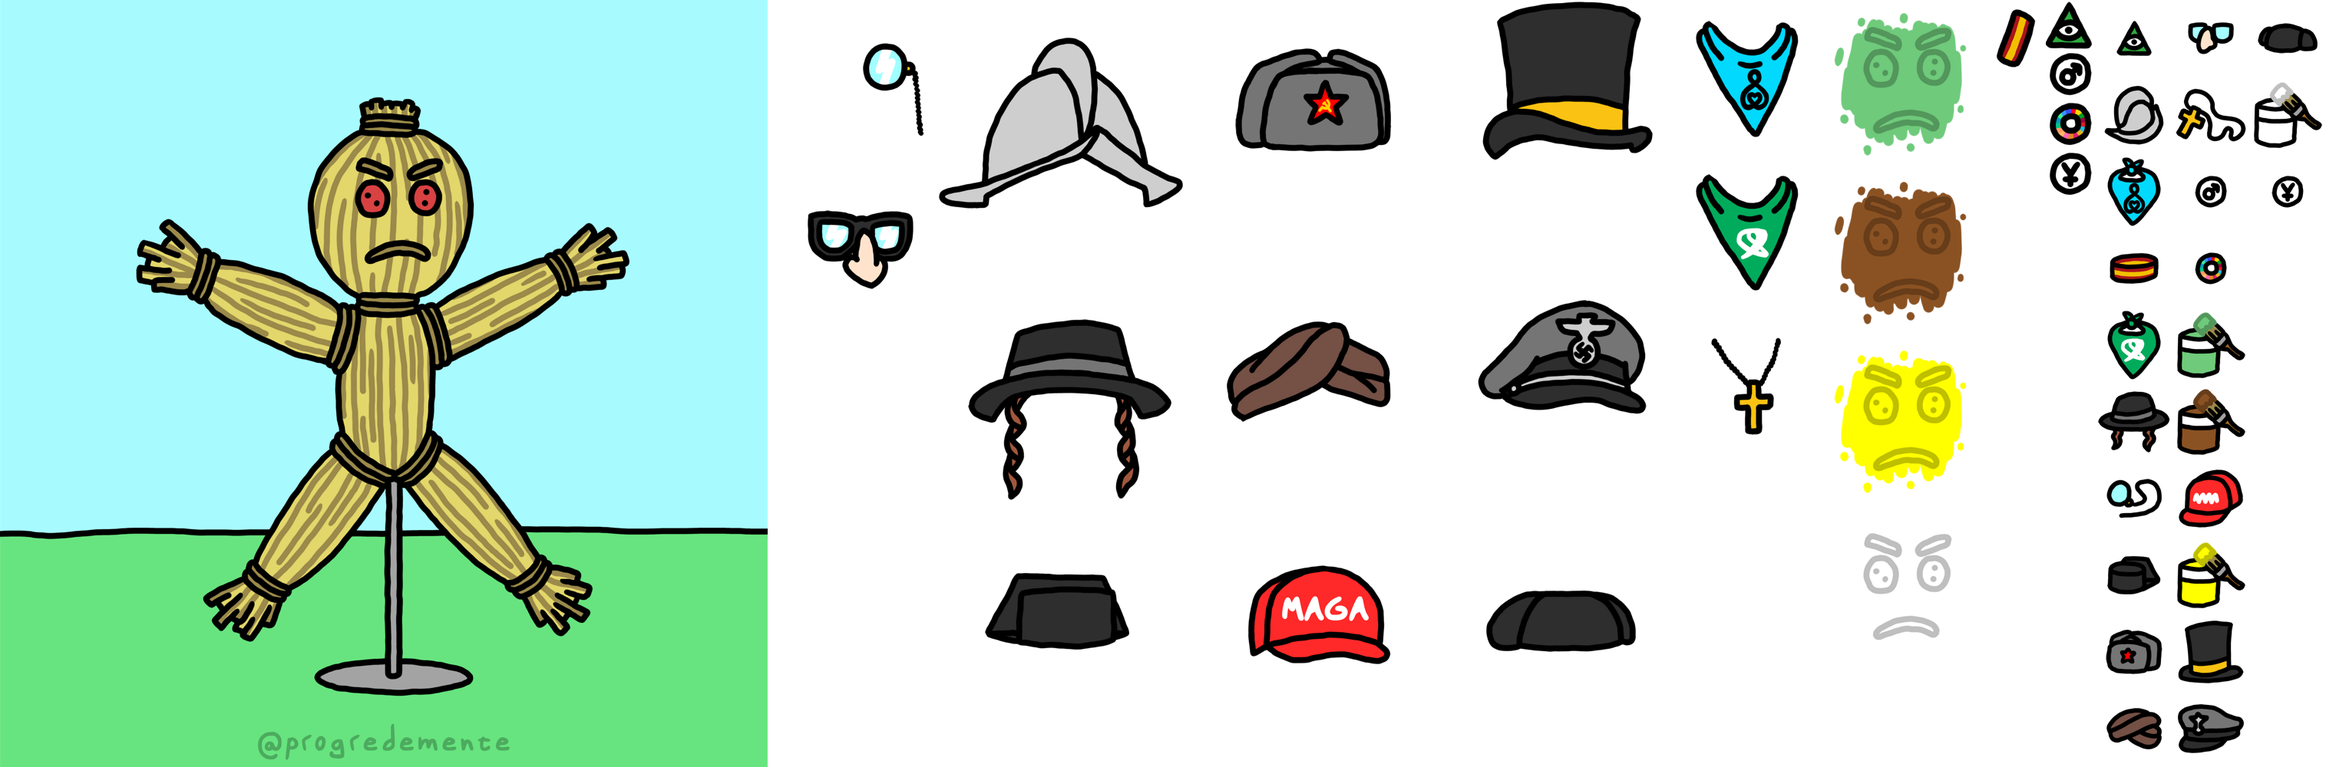
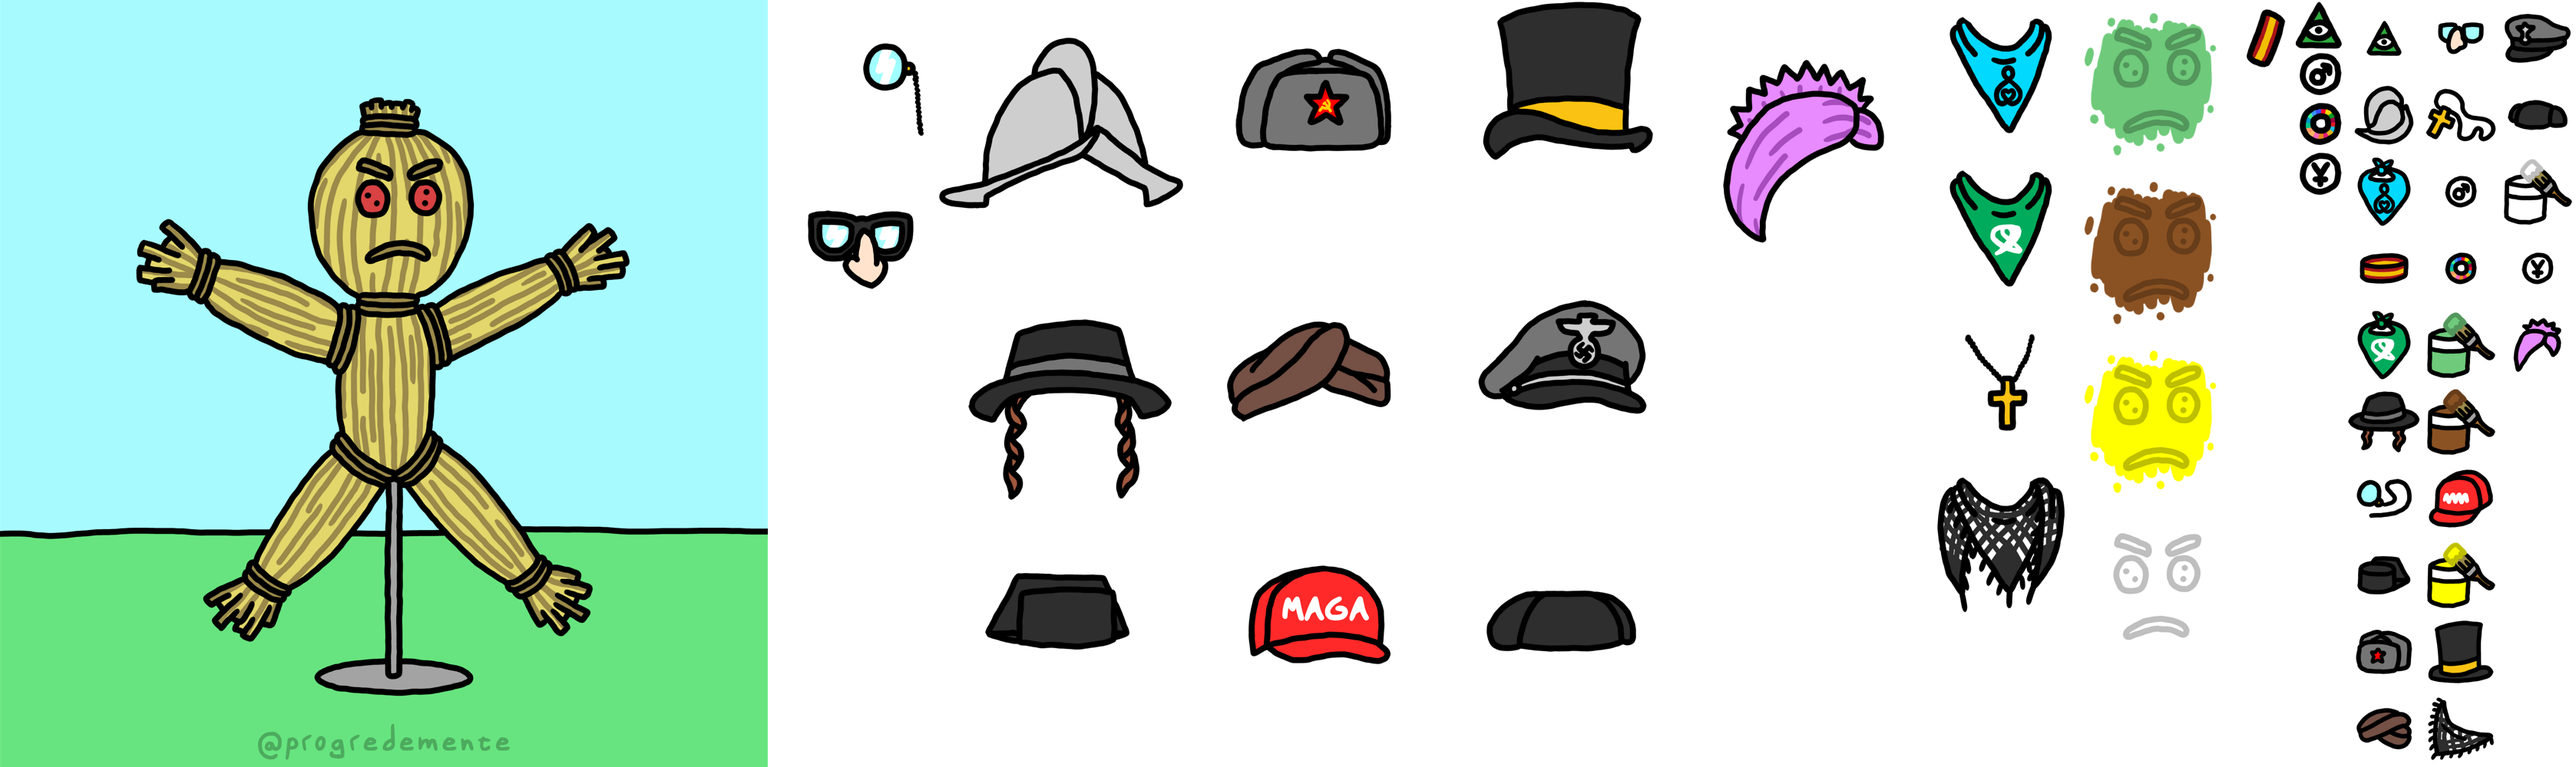
New accessories

diff --git a/docs/static/js/main.d6c129f0.chunk.js b/docs/static/js/main.d6c129f0.chunk.js
@@ -1,0 +1,2 @@
+(this.webpackJsonpstrawman=this.webpackJsonpstrawman||[]).push([[0],[,,function(e){e.exports=JSON.parse('{"2030":{"en":"2030","es":"2030"},"loading":{"en":"loading","es":"cargando"},"make":{"en":"make your own","es":"crea tu propio"},"strawman":{"en":"straw man","es":"hombre de paja"},"download":{"en":"download","es":"descargar"},"accessories":{"en":"accessories","es":"accesorios"},"head":{"en":"head","es":"cabeza"},"color":{"en":"skin color","es":"tono de piel"},"glasses":{"en":"glasses","es":"gafas"},"neck":{"en":"neck","es":"cuello"},"bracelets":{"en":"bracelets","es":"pulseras"},"badges":{"en":"badges","es":"pines"},"spain":{"en":"Spain","es":"Espa\xf1a"},"illuminati":{"en":"Illuminati","es":"Illuminati"},"yunque":{"en":"El Yunque","es":"El Yunque"},"male":{"en":"male","es":"hombre"},"prochoice":{"en":"pro-choice bandana","es":"pa\xf1uelo abortero"},"prolife":{"en":"pro-life bandana","es":"pa\xf1uelo provida"},"cross":{"en":"cross necklace","es":"colgante con cruz"},"nose":{"en":"glasses with nose","es":"gafas con nariz"},"monocle":{"en":"monocle","es":"mon\xf3culo"},"green":{"en":"green","es":"verde"},"white":{"en":"white","es":"blanco"},"yellow":{"en":"yellow","es":"amarillo"},"brown":{"en":"brown","es":"marr\xf3n"},"morion":{"en":"morion","es":"morri\xf3n"},"turban":{"en":"turban","es":"turbante"},"sideburns":{"en":"hat with sideburns","es":"gorro con patillas"},"commie":{"en":"communist hat","es":"gorro comunista"},"top":{"en":"top hat","es":"chistera"},"nazi":{"en":"nazi hat","es":"gorra nazi"},"maga":{"en":"MAGA hat","es":"gorra MAGA"},"tricornio":{"en":"tricornio","es":"tricornio"},"montera":{"en":"montera","es":"montera"},"pink_hair":{"en":"pink hair","es":"pelo rosa"},"keffiyeh":{"en":"Palestinian keffiyeh","es":"palestina"}}')},,,,,,,,function(e){e.exports=JSON.parse('{"strawman":{"w":1000,"y":0,"x":0,"h":1000},"glasses":{"nose":{"t":{"w":100,"y":0,"x":3155,"h":100},"w":220,"y":220,"x":1000,"h":220},"monocle":{"t":{"w":100,"y":600,"x":3055,"h":100},"w":220,"y":0,"x":1000,"h":220}},"color":{"white":{"t":{"w":100,"y":200,"x":3255,"h":100},"w":220,"y":660,"x":2690,"h":220},"green":{"t":{"w":100,"y":400,"x":3155,"h":100},"w":220,"y":0,"x":2690,"h":220},"yellow":{"t":{"w":100,"y":700,"x":3155,"h":100},"w":220,"y":440,"x":2690,"h":220},"brown":{"t":{"w":100,"y":500,"x":3155,"h":100},"w":220,"y":220,"x":2690,"h":220}},"badges":{"2030":{"t":{"w":100,"y":300,"x":3155,"h":100},"w":65,"y":130,"x":2990,"h":65},"yunque":{"t":{"w":100,"y":300,"x":3255,"h":100},"w":65,"y":195,"x":2990,"h":65},"illuminati":{"t":{"w":100,"y":0,"x":3055,"h":100},"w":65,"y":0,"x":2990,"h":65},"male":{"t":{"w":100,"y":200,"x":3155,"h":100},"w":65,"y":65,"x":2990,"h":65}},"bracelets":{"spain":{"t":{"w":100,"y":300,"x":3055,"h":100},"w":80,"y":0,"x":2910,"h":100}},"neck":{"cross":{"t":{"w":100,"y":100,"x":3155,"h":100},"w":170,"y":400,"x":2520,"h":200},"prochoice":{"t":{"w":100,"y":400,"x":3055,"h":100},"w":170,"y":200,"x":2520,"h":200},"keffiyeh":{"t":{"w":100,"y":900,"x":3155,"h":100},"w":170,"y":600,"x":2520,"h":200},"prolife":{"t":{"w":100,"y":200,"x":3055,"h":100},"w":170,"y":0,"x":2520,"h":200}},"head":{"nazi":{"t":{"w":100,"y":0,"x":3255,"h":100},"w":325,"y":330,"x":1870,"h":330},"morion":{"t":{"w":100,"y":100,"x":3055,"h":100},"w":325,"y":0,"x":1220,"h":330},"montera":{"t":{"w":100,"y":100,"x":3255,"h":100},"w":325,"y":660,"x":1870,"h":330},"top":{"t":{"w":100,"y":800,"x":3155,"h":100},"w":325,"y":0,"x":1870,"h":330},"tricornio":{"t":{"w":100,"y":700,"x":3055,"h":100},"w":325,"y":660,"x":1220,"h":330},"pink_hair":{"t":{"w":100,"y":400,"x":3255,"h":100},"w":325,"y":0,"x":2195,"h":330},"commie":{"t":{"w":100,"y":800,"x":3055,"h":100},"w":325,"y":0,"x":1545,"h":330},"maga":{"t":{"w":100,"y":600,"x":3155,"h":100},"w":325,"y":660,"x":1545,"h":330},"sideburns":{"t":{"w":100,"y":500,"x":3055,"h":100},"w":325,"y":330,"x":1220,"h":330},"turban":{"t":{"w":100,"y":900,"x":3055,"h":100},"w":325,"y":330,"x":1545,"h":330}}}')},,,function(e){e.exports=JSON.parse('{"head":{"x":340,"y":10,"w":325,"h":330,"z":2},"color":{"x":400,"y":170,"w":220,"h":220,"z":0},"glasses":{"x":400,"y":170,"w":220,"h":220,"z":1},"neck":{"x":420,"y":355,"w":170,"h":200,"z":3},"bracelets":{"x":225,"y":310,"w":80,"h":100,"z":4},"badges":{"x":515,"y":395,"w":65,"h":65,"z":5}}')},,,,,,function(e,t,a){},function(e,t,a){},function(e,t,a){},,function(e,t,a){},function(e,t,a){},function(e,t,a){"use strict";a.r(t);var n=a(1),s=a.n(n),r=a(11),i=a.n(r),o=(a(19),a(3)),c=a(4),h=a(6),l=a(5),d=(a(20),a(14)),p=a(12),w=(a(21),function e(t){Object(o.a)(this,e),this.x=t.x,this.y=t.y,this.w=t.w,this.h=t.h}),u=function e(t,a,n,s){Object(o.a)(this,e),this.selected=!1,this.name=t,this.category=a,this.origin=new w(n),this.destination=new w(s),this.order=s.z,this.thumbnail=new w(n.t)},m=a(2),g=a(0),y=function(e){Object(h.a)(a,e);var t=Object(l.a)(a);function a(e){var s;return Object(o.a)(this,a),(s=t.call(this,e)).side=s.props.strawman.h,s.canvas=Object(n.createRef)(),s.maxScaleFactor=.7,s.state={scaleFactor:s.getScaleFactor()},s}return Object(c.a)(a,[{key:"componentDidMount",value:function(){var e=this;window.addEventListener("resize",(function(){e.setState({scaleFactor:e.getScaleFactor()})})),this.drawCanvas()}},{key:"componentDidUpdate",value:function(){this.drawCanvas()}},{key:"render",value:function(){var e=this;return Object(g.jsxs)("div",{className:"canvas-component",children:[Object(g.jsxs)("h1",{children:[Object(g.jsx)("div",{children:m.make[this.props.lang].capitalize()}),Object(g.jsx)("div",{children:m.strawman[this.props.lang].toUpperCase()})]}),Object(g.jsx)("canvas",{ref:this.canvas,width:this.side*this.state.scaleFactor,height:this.side*this.state.scaleFactor}),Object(g.jsx)("div",{className:"download",onClick:function(){e.downloadImage()},children:m.download[this.props.lang].capitalize()})]})}},{key:"drawCanvas",value:function(){var e=this.getTempCanvas(),t=this.canvas.current.getContext("2d");t.clearRect(0,0,this.side*this.state.scaleFactor,this.side*this.state.scaleFactor),t.drawImage(e,0,0,this.side*this.state.scaleFactor,this.side*this.state.scaleFactor)}},{key:"getTempCanvas",value:function(){var e=document.createElement("canvas");e.width=this.side,e.height=this.side;var t=e.getContext("2d");return this.drawImage(this.props.strawman,this.props.strawman,t),this.drawWardrobe(this.props.wardrobe,t),e}},{key:"drawWardrobe",value:function(e,t){var a,n=Object(p.a)(this.getClothes(e).sort((function(e,t){return e.order-t.order})));try{for(n.s();!(a=n.n()).done;){var s=a.value;this.drawImage(s.origin,s.destination,t)}}catch(r){n.e(r)}finally{n.f()}}},{key:"getClothes",value:function(e){var t=[];for(var a in e)e[a]instanceof u?e[a].selected&&t.push(e[a]):t.push.apply(t,Object(d.a)(this.getClothes(e[a])));return t}},{key:"drawImage",value:function(e,t,a){a.drawImage(this.props.img,e.x,e.y,e.w,e.h,t.x,t.y,t.w,t.h)}},{key:"downloadImage",value:function(){var e=document.createElement("a");e.download="strawman.png",this.getTempCanvas().toBlob((function(t){var a=URL.createObjectURL(t);e.href=a,e.click()}))}},{key:"getScaleFactor",value:function(){return window.innerWidth<this.side*this.maxScaleFactor?window.innerWidth/this.side:this.maxScaleFactor}}]),a}(n.Component),x=(a(23),a(24),function(e){Object(h.a)(a,e);var t=Object(l.a)(a);function a(){return Object(o.a)(this,a),t.apply(this,arguments)}return Object(c.a)(a,[{key:"render",value:function(){var e=this;return Object(g.jsxs)("div",{className:"garment".concat(this.props.garment.selected?" selected":""),onClick:function(){e.props.selectGarment(e.props.garment)},children:[Object(g.jsx)("img",{src:"./merge.png",style:{"--x":"".concat(this.props.garment.thumbnail.x,"px"),"--y":"".concat(this.props.garment.thumbnail.y,"px"),"--w":"".concat(this.props.garment.thumbnail.w,"px"),"--h":"".concat(this.props.garment.thumbnail.h,"px")},alt:m[this.props.garment.name][this.props.lang]}),Object(g.jsx)("figcaption",{children:m[this.props.garment.name][this.props.lang]})]})}}]),a}(n.Component)),b=x,f=function(e){Object(h.a)(a,e);var t=Object(l.a)(a);function a(){return Object(o.a)(this,a),t.apply(this,arguments)}return Object(c.a)(a,[{key:"render",value:function(){var e=this;return Object(g.jsxs)("div",{className:"wardrobe",children:[Object(g.jsx)("h1",{children:m.accessories[this.props.lang].capitalize()}),Object.keys(this.props.wardrobe).map((function(t){return Object(g.jsxs)("div",{className:"category",children:[Object(g.jsx)("span",{children:m[t][e.props.lang].capitalize()}),Object(g.jsx)("div",{className:"content",children:Object.keys(e.props.wardrobe[t]).map((function(a){return Object(g.jsx)(b,{garment:e.props.wardrobe[t][a],selectGarment:e.props.selectGarment,lang:e.props.lang},a)}))})]},t)}))]})}}]),a}(n.Component),j=f,v=a(10),O=a(13),k=function(e){Object(h.a)(a,e);var t=Object(l.a)(a);function a(e){var n,s;Object(o.a)(this,a),(n=t.call(this,e)).selectGarment=function(e){if(!e.selected)for(var t in e.category){var a=e.category[t];a!==e&&(a.selected=!1)}e.selected=!e.selected,n.setState({})};try{s=navigator.language.toLowerCase().split("-")[0]}catch(r){}return["en","es"].includes(s)||(s="en"),n.state={wardrobe:n.getWardrobe(v,O),lang:s,loaded:!1},n}return Object(c.a)(a,[{key:"componentDidMount",value:function(){var e=this;this.img=new Image,this.img.src="./merge.png",this.img.onload=function(){e.setState({loaded:!0})}}},{key:"getWardrobe",value:function(e,t){var a={};for(var n in e)if("strawman"!==n)for(var s in a[n]={},e[n])a[n][s]=new u(s,a[n],e[n][s],t[n]);return a}},{key:"render",value:function(){return Object(g.jsxs)(g.Fragment,{children:[this.state.loaded&&Object(g.jsxs)("div",{className:"app",children:[Object(g.jsx)(y,{wardrobe:this.state.wardrobe,strawman:new w(v.strawman),lang:this.state.lang,img:this.img}),Object(g.jsx)(j,{wardrobe:this.state.wardrobe,selectGarment:this.selectGarment,lang:this.state.lang})]}),!this.state.loaded&&Object(g.jsxs)("div",{className:"loading",children:[Object(g.jsx)("img",{src:"./favicon.png",alt:m.loading[this.state.lang]}),m.loading[this.state.lang]]})]})}}]),a}(n.Component),C=function(e){e&&e instanceof Function&&a.e(3).then(a.bind(null,26)).then((function(t){var a=t.getCLS,n=t.getFID,s=t.getFCP,r=t.getLCP,i=t.getTTFB;a(e),n(e),s(e),r(e),i(e)}))};String.prototype.capitalize=function(){return this[0].toUpperCase()+this.substr(1,this.length)},i.a.render(Object(g.jsx)(s.a.StrictMode,{children:Object(g.jsx)(k,{})}),document.getElementById("root")),C()}],[[25,1,2]]]);
+//# sourceMappingURL=main.d6c129f0.chunk.js.map

diff --git a/docs/index.html b/docs/index.html
@@ -1,1 +1,1 @@
-<!doctype html><html lang="en"><head><meta charset="utf-8"/><link rel="icon" href="/strawman/favicon.png"/><meta name="viewport" content="width=device-width,initial-scale=1"/><meta name="theme-color" content="#000000"/><meta name="description" content="Web site created using create-react-app"/><link rel="apple-touch-icon" href="/strawman/logo192.png"/><link rel="manifest" href="/strawman/manifest.json"/><title>Straw man</title><link href="/strawman/static/css/main.b5a4c19e.chunk.css" rel="stylesheet"></head><body><noscript>You need to enable JavaScript to run this app.</noscript><div id="root"></div><script>!function(e){function r(r){for(var n,a,i=r[0],c=r[1],l=r[2],f=0,p=[];f<i.length;f++)a=i[f],Object.prototype.hasOwnProperty.call(o,a)&&o[a]&&p.push(o[a][0]),o[a]=0;for(n in c)Object.prototype.hasOwnProperty.call(c,n)&&(e[n]=c[n]);for(s&&s(r);p.length;)p.shift()();return u.push.apply(u,l||[]),t()}function t(){for(var e,r=0;r<u.length;r++){for(var t=u[r],n=!0,i=1;i<t.length;i++){var c=t[i];0!==o[c]&&(n=!1)}n&&(u.splice(r--,1),e=a(a.s=t[0]))}return e}var n={},o={1:0},u=[];function a(r){if(n[r])return n[r].exports;var t=n[r]={i:r,l:!1,exports:{}};return e[r].call(t.exports,t,t.exports,a),t.l=!0,t.exports}a.e=function(e){var r=[],t=o[e];if(0!==t)if(t)r.push(t[2]);else{var n=new Promise((function(r,n){t=o[e]=[r,n]}));r.push(t[2]=n);var u,i=document.createElement("script");i.charset="utf-8",i.timeout=120,a.nc&&i.setAttribute("nonce",a.nc),i.src=function(e){return a.p+"static/js/"+({}[e]||e)+"."+{3:"6449b234"}[e]+".chunk.js"}(e);var c=new Error;u=function(r){i.onerror=i.onload=null,clearTimeout(l);var t=o[e];if(0!==t){if(t){var n=r&&("load"===r.type?"missing":r.type),u=r&&r.target&&r.target.src;c.message="Loading chunk "+e+" failed.\n("+n+": "+u+")",c.name="ChunkLoadError",c.type=n,c.request=u,t[1](c)}o[e]=void 0}};var l=setTimeout((function(){u({type:"timeout",target:i})}),12e4);i.onerror=i.onload=u,document.head.appendChild(i)}return Promise.all(r)},a.m=e,a.c=n,a.d=function(e,r,t){a.o(e,r)||Object.defineProperty(e,r,{enumerable:!0,get:t})},a.r=function(e){"undefined"!=typeof Symbol&&Symbol.toStringTag&&Object.defineProperty(e,Symbol.toStringTag,{value:"Module"}),Object.defineProperty(e,"__esModule",{value:!0})},a.t=function(e,r){if(1&r&&(e=a(e)),8&r)return e;if(4&r&&"object"==typeof e&&e&&e.__esModule)return e;var t=Object.create(null);if(a.r(t),Object.defineProperty(t,"default",{enumerable:!0,value:e}),2&r&&"string"!=typeof e)for(var n in e)a.d(t,n,function(r){return e[r]}.bind(null,n));return t},a.n=function(e){var r=e&&e.__esModule?function(){return e.default}:function(){return e};return a.d(r,"a",r),r},a.o=function(e,r){return Object.prototype.hasOwnProperty.call(e,r)},a.p="/strawman/",a.oe=function(e){throw console.error(e),e};var i=this.webpackJsonpstrawman=this.webpackJsonpstrawman||[],c=i.push.bind(i);i.push=r,i=i.slice();for(var l=0;l<i.length;l++)r(i[l]);var s=c;t()}([])</script><script src="/strawman/static/js/2.21a2c000.chunk.js"></script><script src="/strawman/static/js/main.f44671d4.chunk.js"></script></body></html>
+<!doctype html><html lang="en"><head><meta charset="utf-8"/><link rel="icon" href="./favicon.png"/><meta name="viewport" content="width=device-width,initial-scale=1"/><meta name="theme-color" content="#000000"/><meta name="description" content="Web site created using create-react-app"/><link rel="apple-touch-icon" href="./logo192.png"/><link rel="manifest" href="./manifest.json"/><title>Straw man</title><link href="./static/css/main.df0759d8.chunk.css" rel="stylesheet"></head><body><noscript>You need to enable JavaScript to run this app.</noscript><div id="root"></div><script>!function(e){function r(r){for(var n,a,i=r[0],c=r[1],l=r[2],s=0,p=[];s<i.length;s++)a=i[s],Object.prototype.hasOwnProperty.call(o,a)&&o[a]&&p.push(o[a][0]),o[a]=0;for(n in c)Object.prototype.hasOwnProperty.call(c,n)&&(e[n]=c[n]);for(f&&f(r);p.length;)p.shift()();return u.push.apply(u,l||[]),t()}function t(){for(var e,r=0;r<u.length;r++){for(var t=u[r],n=!0,i=1;i<t.length;i++){var c=t[i];0!==o[c]&&(n=!1)}n&&(u.splice(r--,1),e=a(a.s=t[0]))}return e}var n={},o={1:0},u=[];function a(r){if(n[r])return n[r].exports;var t=n[r]={i:r,l:!1,exports:{}};return e[r].call(t.exports,t,t.exports,a),t.l=!0,t.exports}a.e=function(e){var r=[],t=o[e];if(0!==t)if(t)r.push(t[2]);else{var n=new Promise((function(r,n){t=o[e]=[r,n]}));r.push(t[2]=n);var u,i=document.createElement("script");i.charset="utf-8",i.timeout=120,a.nc&&i.setAttribute("nonce",a.nc),i.src=function(e){return a.p+"static/js/"+({}[e]||e)+"."+{3:"6449b234"}[e]+".chunk.js"}(e);var c=new Error;u=function(r){i.onerror=i.onload=null,clearTimeout(l);var t=o[e];if(0!==t){if(t){var n=r&&("load"===r.type?"missing":r.type),u=r&&r.target&&r.target.src;c.message="Loading chunk "+e+" failed.\n("+n+": "+u+")",c.name="ChunkLoadError",c.type=n,c.request=u,t[1](c)}o[e]=void 0}};var l=setTimeout((function(){u({type:"timeout",target:i})}),12e4);i.onerror=i.onload=u,document.head.appendChild(i)}return Promise.all(r)},a.m=e,a.c=n,a.d=function(e,r,t){a.o(e,r)||Object.defineProperty(e,r,{enumerable:!0,get:t})},a.r=function(e){"undefined"!=typeof Symbol&&Symbol.toStringTag&&Object.defineProperty(e,Symbol.toStringTag,{value:"Module"}),Object.defineProperty(e,"__esModule",{value:!0})},a.t=function(e,r){if(1&r&&(e=a(e)),8&r)return e;if(4&r&&"object"==typeof e&&e&&e.__esModule)return e;var t=Object.create(null);if(a.r(t),Object.defineProperty(t,"default",{enumerable:!0,value:e}),2&r&&"string"!=typeof e)for(var n in e)a.d(t,n,function(r){return e[r]}.bind(null,n));return t},a.n=function(e){var r=e&&e.__esModule?function(){return e.default}:function(){return e};return a.d(r,"a",r),r},a.o=function(e,r){return Object.prototype.hasOwnProperty.call(e,r)},a.p="./",a.oe=function(e){throw console.error(e),e};var i=this.webpackJsonpstrawman=this.webpackJsonpstrawman||[],c=i.push.bind(i);i.push=r,i=i.slice();for(var l=0;l<i.length;l++)r(i[l]);var f=c;t()}([])</script><script src="./static/js/2.21a2c000.chunk.js"></script><script src="./static/js/main.d6c129f0.chunk.js"></script></body></html>

diff --git a/docs/static/js/runtime-main.1fb77618.js b/docs/static/js/runtime-main.1fb77618.js
@@ -1,0 +1,2 @@
+!function(e){function r(r){for(var n,a,i=r[0],c=r[1],l=r[2],s=0,p=[];s<i.length;s++)a=i[s],Object.prototype.hasOwnProperty.call(o,a)&&o[a]&&p.push(o[a][0]),o[a]=0;for(n in c)Object.prototype.hasOwnProperty.call(c,n)&&(e[n]=c[n]);for(f&&f(r);p.length;)p.shift()();return u.push.apply(u,l||[]),t()}function t(){for(var e,r=0;r<u.length;r++){for(var t=u[r],n=!0,i=1;i<t.length;i++){var c=t[i];0!==o[c]&&(n=!1)}n&&(u.splice(r--,1),e=a(a.s=t[0]))}return e}var n={},o={1:0},u=[];function a(r){if(n[r])return n[r].exports;var t=n[r]={i:r,l:!1,exports:{}};return e[r].call(t.exports,t,t.exports,a),t.l=!0,t.exports}a.e=function(e){var r=[],t=o[e];if(0!==t)if(t)r.push(t[2]);else{var n=new Promise((function(r,n){t=o[e]=[r,n]}));r.push(t[2]=n);var u,i=document.createElement("script");i.charset="utf-8",i.timeout=120,a.nc&&i.setAttribute("nonce",a.nc),i.src=function(e){return a.p+"static/js/"+({}[e]||e)+"."+{3:"6449b234"}[e]+".chunk.js"}(e);var c=new Error;u=function(r){i.onerror=i.onload=null,clearTimeout(l);var t=o[e];if(0!==t){if(t){var n=r&&("load"===r.type?"missing":r.type),u=r&&r.target&&r.target.src;c.message="Loading chunk "+e+" failed.\n("+n+": "+u+")",c.name="ChunkLoadError",c.type=n,c.request=u,t[1](c)}o[e]=void 0}};var l=setTimeout((function(){u({type:"timeout",target:i})}),12e4);i.onerror=i.onload=u,document.head.appendChild(i)}return Promise.all(r)},a.m=e,a.c=n,a.d=function(e,r,t){a.o(e,r)||Object.defineProperty(e,r,{enumerable:!0,get:t})},a.r=function(e){"undefined"!==typeof Symbol&&Symbol.toStringTag&&Object.defineProperty(e,Symbol.toStringTag,{value:"Module"}),Object.defineProperty(e,"__esModule",{value:!0})},a.t=function(e,r){if(1&r&&(e=a(e)),8&r)return e;if(4&r&&"object"===typeof e&&e&&e.__esModule)return e;var t=Object.create(null);if(a.r(t),Object.defineProperty(t,"default",{enumerable:!0,value:e}),2&r&&"string"!=typeof e)for(var n in e)a.d(t,n,function(r){return e[r]}.bind(null,n));return t},a.n=function(e){var r=e&&e.__esModule?function(){return e.default}:function(){return e};return a.d(r,"a",r),r},a.o=function(e,r){return Object.prototype.hasOwnProperty.call(e,r)},a.p="./",a.oe=function(e){throw console.error(e),e};var i=this.webpackJsonpstrawman=this.webpackJsonpstrawman||[],c=i.push.bind(i);i.push=r,i=i.slice();for(var l=0;l<i.length;l++)r(i[l]);var f=c;t()}([]);
+//# sourceMappingURL=runtime-main.1fb77618.js.map

diff --git a/docs/static/css/main.df0759d8.chunk.css b/docs/static/css/main.df0759d8.chunk.css
@@ -1,0 +1,2 @@
+@font-face{font-family:ComicTypo;src:url(../../static/media/comic_typo.b929a200.ttf)}#root,body,html{height:100%}*{font-family:ComicTypo;box-sizing:border-box;--border-radius:10px;--primary-color:#fff59f;--secondary-color:#e3d76b;--background-color:#fff9c7;--highlight-color:#9a8d1f}html{background-color:var(--background-color)}body{margin:0;font-size:1.5em}canvas{display:block}.app{display:flex;align-content:stretch;height:100%}.app>:last-child{flex-grow:1}@media (max-width:1000px){.app{display:inline;display:initial;height:auto}}.loading{display:flex;flex-direction:column;justify-content:center;align-items:center;width:100%;height:100%}.loading>img{width:200px;-webkit-animation:spin 2s linear infinite;animation:spin 2s linear infinite}@-webkit-keyframes spin{0%{-webkit-transform:rotate(0deg);transform:rotate(0deg)}to{-webkit-transform:rotate(1turn);transform:rotate(1turn)}}@keyframes spin{0%{-webkit-transform:rotate(0deg);transform:rotate(0deg)}to{-webkit-transform:rotate(1turn);transform:rotate(1turn)}}.canvas-component{display:flex;flex-direction:column;align-items:center}.download{font-size:2em;background-color:var(--highlight-color);border:0;color:var(--background-color);margin:10px;padding:10px 20px;text-align:center;border-radius:var(--border-radius);cursor:pointer}.canvas-component h1{font-size:1em;font-weight:400}.canvas-component h1>:first-child{font-size:1em}.canvas-component h1>:last-child{font-size:2em;font-weight:700}.wardrobe{padding:0 10px 10px;background-color:var(--primary-color);overflow-y:auto;position:relative}.category>.content{background-color:var(--secondary-color);padding:10px;overflow-x:auto;white-space:nowrap;border-radius:var(--border-radius)}.category:not(:last-child){margin-bottom:20px}.wardrobe h1{font-weight:400;margin:0;font-size:1.5em;position:sticky;top:0;padding:10px 0;text-align:center}.garment.selected,.wardrobe h1{background-color:var(--primary-color)}.garment>img{height:var(--h);width:var(--w);object-fit:none;object-position:calc(var(--x)*-1) calc(var(--y)*-1)}.garment{display:inline-flex;flex-direction:column;align-items:center;padding:10px;border-radius:var(--border-radius);cursor:pointer}
+/*# sourceMappingURL=main.df0759d8.chunk.css.map */
